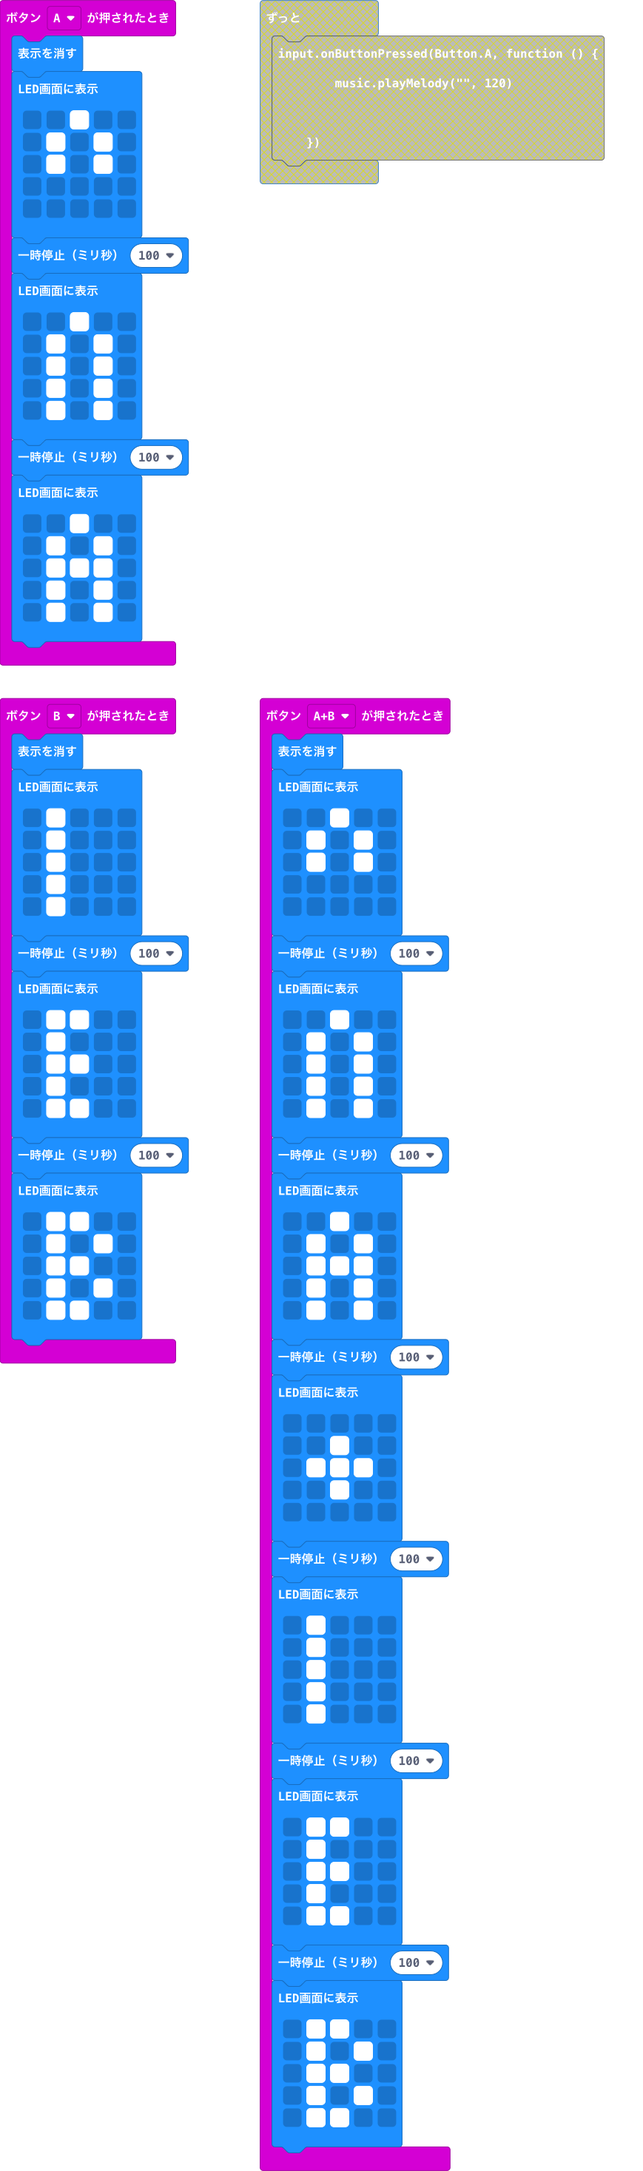
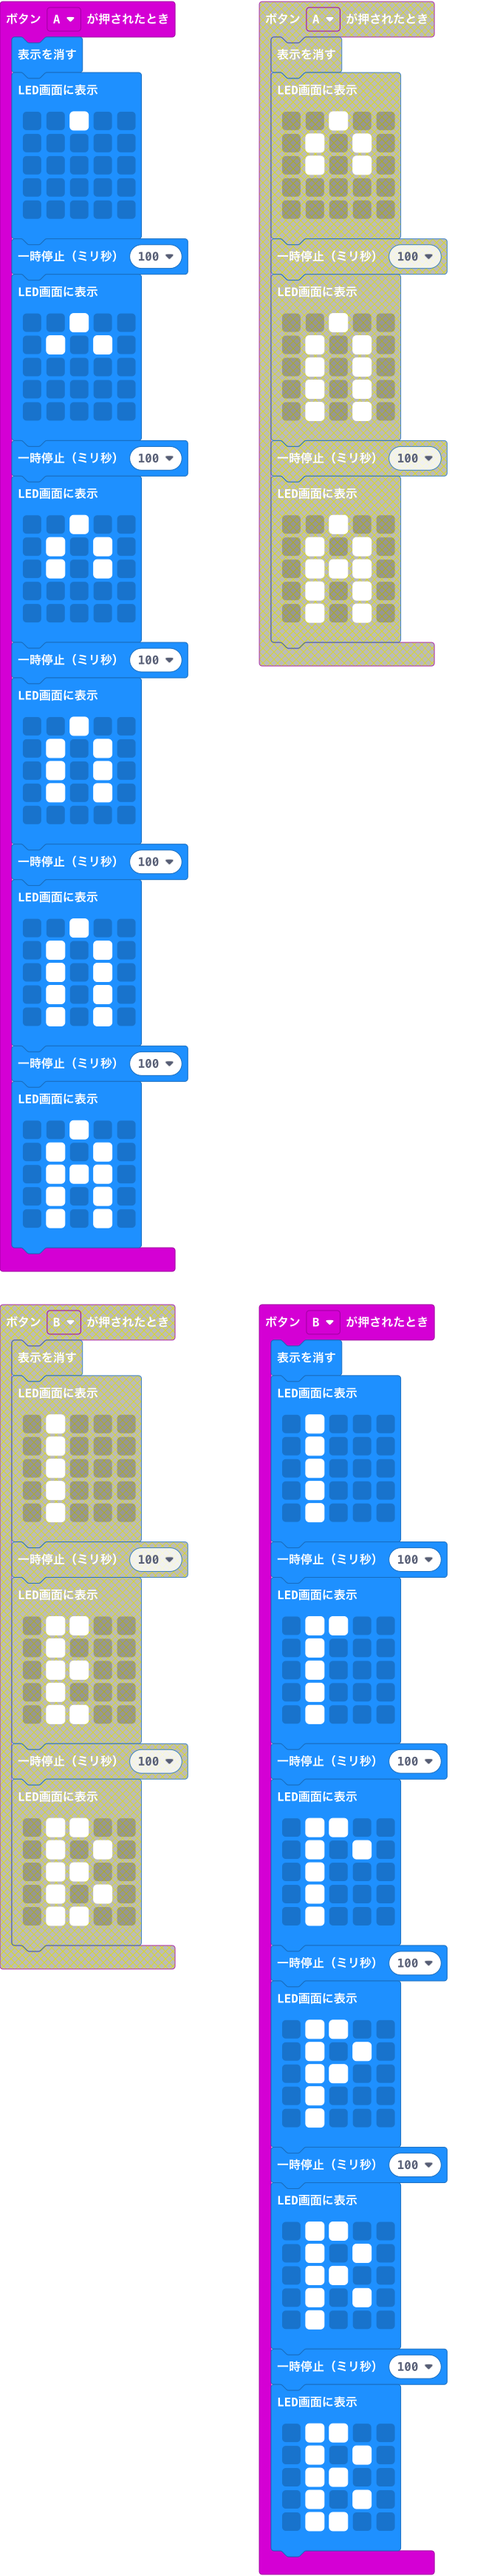
add to motion of A and B

diff --git a/main.ts b/main.ts
@@ -2,9 +2,33 @@ input.onButtonPressed(Button.A, function () {
     basic.clearScreen()
     basic.showLeds(`
         . . # . .
+        . . . . .
+        . . . . .
+        . . . . .
+        . . . . .
+        `)
+    basic.pause(100)
+    basic.showLeds(`
+        . . # . .
+        . # . # .
+        . . . . .
+        . . . . .
+        . . . . .
+        `)
+    basic.pause(100)
+    basic.showLeds(`
+        . . # . .
         . # . # .
         . # . # .
         . . . . .
+        . . . . .
+        `)
+    basic.pause(100)
+    basic.showLeds(`
+        . . # . .
+        . # . # .
+        . # . # .
+        . # . # .
         . . . . .
         `)
     basic.pause(100)
@@ -95,9 +119,33 @@ input.onButtonPressed(Button.B, function () {
     basic.showLeds(`
         . # # . .
         . # . . .
+        . # . . .
+        . # . . .
+        . # . . .
+        `)
+    basic.pause(100)
+    basic.showLeds(`
+        . # # . .
+        . # . # .
+        . # . . .
+        . # . . .
+        . # . . .
+        `)
+    basic.pause(100)
+    basic.showLeds(`
+        . # # . .
+        . # . # .
         . # # . .
         . # . . .
+        . # . . .
+        `)
+    basic.pause(100)
+    basic.showLeds(`
         . # # . .
+        . # . # .
+        . # # . .
+        . # . # .
+        . # . . .
         `)
     basic.pause(100)
     basic.showLeds(`

diff --git a/main.py b/main.py
@@ -2,9 +2,33 @@ def on_button_pressed_a():
     basic.clear_screen()
     basic.show_leds("""
         . . # . .
+        . . . . .
+        . . . . .
+        . . . . .
+        . . . . .
+        """)
+    basic.pause(100)
+    basic.show_leds("""
+        . . # . .
+        . # . # .
+        . . . . .
+        . . . . .
+        . . . . .
+        """)
+    basic.pause(100)
+    basic.show_leds("""
+        . . # . .
         . # . # .
         . # . # .
         . . . . .
+        . . . . .
+        """)
+    basic.pause(100)
+    basic.show_leds("""
+        . . # . .
+        . # . # .
+        . # . # .
+        . # . # .
         . . . . .
         """)
     basic.pause(100)
@@ -52,11 +76,11 @@ def on_button_pressed_ab():
         """)
     basic.pause(100)
     basic.show_leds("""
+        . . . . .
         . . # . .
+        . # # # .
         . . # . .
-        # # # # #
-        . . # . .
-        . . # . .
+        . . . . .
         """)
     basic.pause(100)
     basic.show_leds("""
@@ -97,9 +121,33 @@ def on_button_pressed_b():
     basic.show_leds("""
         . # # . .
         . # . . .
+        . # . . .
+        . # . . .
+        . # . . .
+        """)
+    basic.pause(100)
+    basic.show_leds("""
+        . # # . .
+        . # . # .
+        . # . . .
+        . # . . .
+        . # . . .
+        """)
+    basic.pause(100)
+    basic.show_leds("""
+        . # # . .
+        . # . # .
         . # # . .
         . # . . .
+        . # . . .
+        """)
+    basic.pause(100)
+    basic.show_leds("""
         . # # . .
+        . # . # .
+        . # # . .
+        . # . # .
+        . # . . .
         """)
     basic.pause(100)
     basic.show_leds("""
